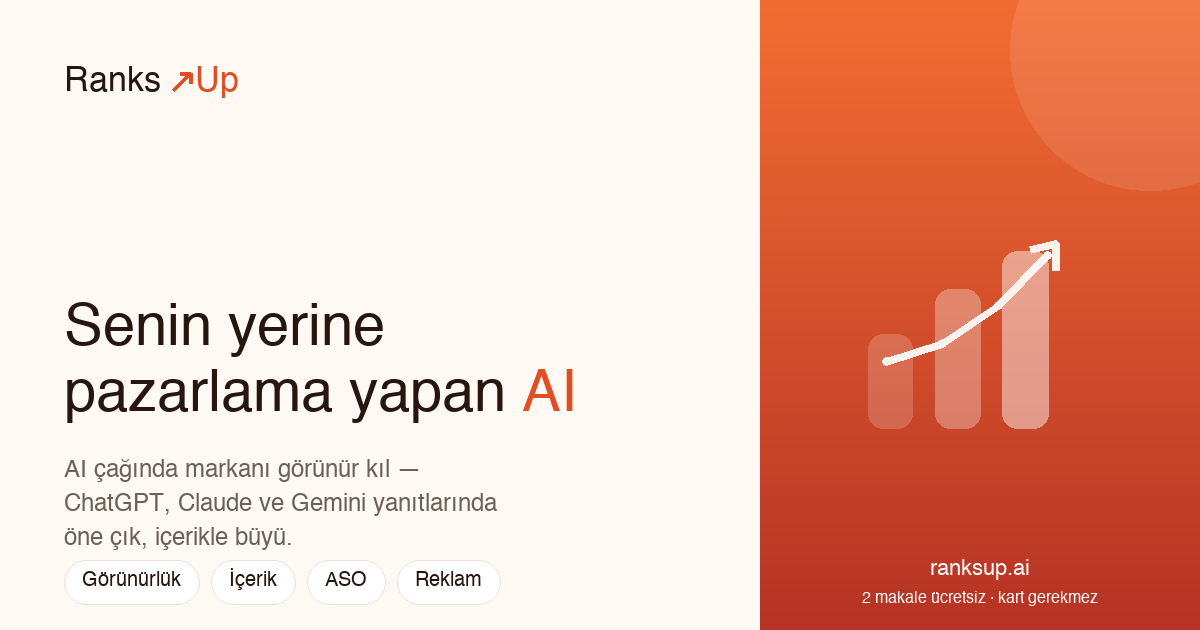
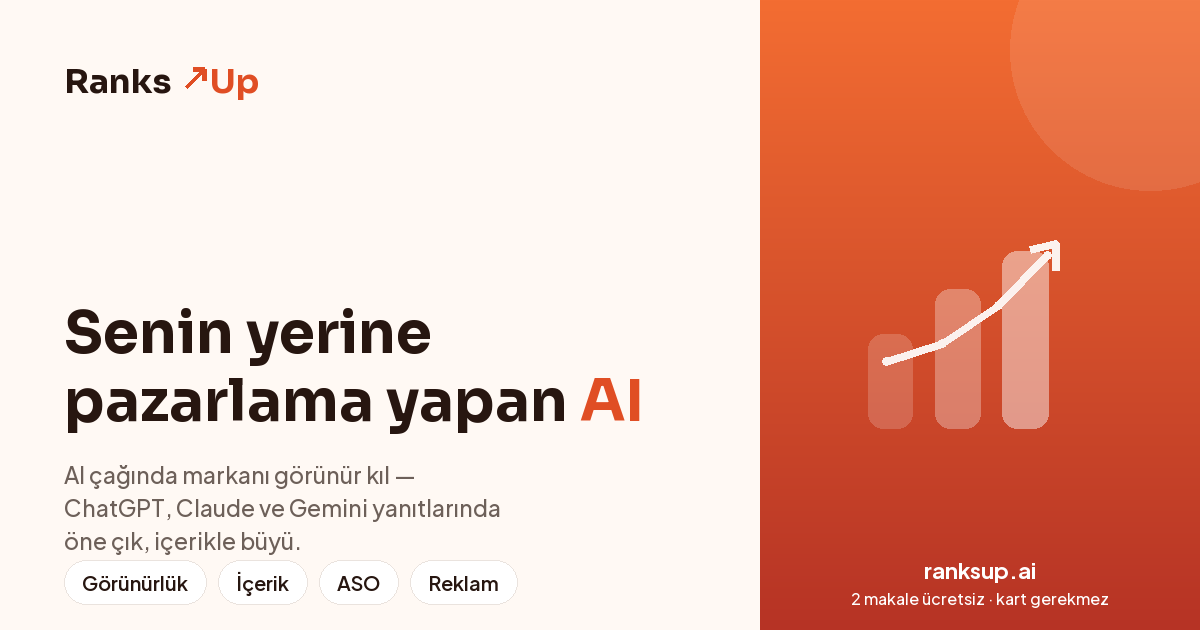
fix(brand): Sora fontu + Bridge wordmark'i her yere uygula
Logo yanlis gorunuyordu cunku Sora yuklenmemisti (system font'a dusuyordu).
- fonts.ts: Sora + Plus Jakarta Sans + JetBrains Mono eklendi (--font-sora vs)
- BrandWordmark var(--font-sora) kullaniyor
- Wordmark (Ranks↗Up) yerlestirildi: site-header, admin-sidebar, site-sidebar (x2),
  dashboard mobil bar, signin (✨ emoji kaldirildi)
- og-image.png gercek Sora + Plus Jakarta Sans ile yeniden uretildi

diff --git a/apps/web/src/components/site-sidebar.tsx b/apps/web/src/components/site-sidebar.tsx
@@ -3,7 +3,7 @@
 import Link from 'next/link';
 import { useParams, usePathname, useRouter } from 'next/navigation';
 import { useEffect, useMemo, useRef, useState } from 'react';
-import { BrandLogo } from '@/components/brand-logo';
+import { BrandWordmark } from '@/components/brand-logo';
 import {
   Home,
   Plus,
@@ -170,11 +170,10 @@ export function SiteSidebar({ onClose }: { onClose?: () => void }) {
     return (
       <>
         <div className="p-6">
-          <Link href="/" className="inline-flex items-center gap-2 text-2xl font-bold text-white">
-            <BrandLogo size={36} className="rounded-lg" />
-            RanksUp
+          <Link href="/" className="inline-flex items-center">
+            <BrandWordmark size={26} reversed />
           </Link>
-          <div className="text-xs text-slate-500 mt-2 ml-11">v0.7 Faz 2 Beta</div>
+          <div className="text-xs text-slate-500 mt-2">v0.7 Faz 2 Beta</div>
         </div>
         <nav className="px-3 space-y-1">
           {GLOBAL_NAV.map((item) => {
@@ -208,9 +207,8 @@ export function SiteSidebar({ onClose }: { onClose?: () => void }) {
   return (
     <>
       <div className="p-4">
-        <Link href="/dashboard" className="inline-flex items-center gap-2 text-base font-bold text-white mb-3">
-          <BrandLogo size={28} className="rounded-lg" />
-          RanksUp
+        <Link href="/dashboard" className="inline-flex items-center gap-2 mb-3">
+          <BrandWordmark size={19} reversed />
           <span className="text-[9px] uppercase tracking-widest text-slate-500 font-mono ml-1">Site</span>
         </Link>
 

diff --git a/apps/web/src/lib/fonts.ts b/apps/web/src/lib/fonts.ts
@@ -1,4 +1,4 @@
-import { Instrument_Serif, Geist, Geist_Mono } from 'next/font/google';
+import { Instrument_Serif, Geist, Geist_Mono, Sora, Plus_Jakarta_Sans, JetBrains_Mono } from 'next/font/google';
 
 /**
  * RanksUp tipografi sistemi — Apple-grade premium pair.
@@ -35,4 +35,29 @@ export const fontMono = Geist_Mono({
   display: 'swap',
 });
 
-export const fontVariables = `${fontDisplay.variable} ${fontSans.variable} ${fontMono.variable}`;
+/**
+ * Bridge marka sistemi fontları:
+ *   - SORA → logotype (Ranks↗Up) + başlıklar. Markanın imza fontu.
+ *   - PLUS JAKARTA SANS → gövde metni alternatifi.
+ *   - JETBRAINS MONO → kicker/etiket/kod.
+ */
+export const fontSora = Sora({
+  subsets: ['latin', 'latin-ext'],
+  weight: ['500', '600', '700', '800'],
+  variable: '--font-sora',
+  display: 'swap',
+});
+
+export const fontJakarta = Plus_Jakarta_Sans({
+  subsets: ['latin', 'latin-ext'],
+  variable: '--font-jakarta',
+  display: 'swap',
+});
+
+export const fontJetbrains = JetBrains_Mono({
+  subsets: ['latin', 'latin-ext'],
+  variable: '--font-jetbrains',
+  display: 'swap',
+});
+
+export const fontVariables = `${fontDisplay.variable} ${fontSans.variable} ${fontMono.variable} ${fontSora.variable} ${fontJakarta.variable} ${fontJetbrains.variable}`;

diff --git a/apps/web/src/app/(auth)/signin/page.tsx b/apps/web/src/app/(auth)/signin/page.tsx
@@ -3,6 +3,7 @@ import Link from 'next/link';
 import { auth, signIn } from '@/auth';
 import { Card, CardContent } from '@/components/ui/card';
 import { Button } from '@/components/ui/button';
+import { BrandWordmark } from '@/components/brand-logo';
 
 type SignInPageProps = {
   searchParams: Promise<{ callbackUrl?: string; error?: string }>;
@@ -31,11 +32,8 @@ export default async function SignInPage({ searchParams }: SignInPageProps) {
 
       <div className="w-full max-w-md space-y-6">
         <div className="text-center">
-          <Link href="/" className="inline-flex items-center gap-2 font-bold text-2xl">
-            <span className="bg-gradient-to-br from-orange-500 to-orange-700 text-white rounded-xl w-10 h-10 grid place-items-center text-xl">
-              ✨
-            </span>
-            RanksUp
+          <Link href="/" className="inline-flex items-center">
+            <BrandWordmark size={32} />
           </Link>
           <p className="text-muted-foreground mt-3 text-sm">
             Türkiye&apos;nin AI destekli SEO/GEO içerik platformu

diff --git a/apps/web/src/components/site-header.tsx b/apps/web/src/components/site-header.tsx
@@ -5,7 +5,7 @@ import { useSession } from 'next-auth/react';
 import { ArrowRight } from 'lucide-react';
 import { ThemeToggle } from '@/components/theme-toggle';
 import { LocaleSwitch } from '@/components/locale-switch';
-import { BrandLogo } from '@/components/brand-logo';
+import { BrandWordmark } from '@/components/brand-logo';
 import { useT } from '@/lib/i18n';
 
 /**
@@ -20,9 +20,8 @@ export function SiteHeader() {
   return (
     <header className="sticky top-0 z-50 w-full nav-blur">
       <div className="container-apple h-14 flex items-center justify-between">
-        <Link href="/" className="flex items-center gap-2.5 text-[15px] font-medium tracking-[-0.01em]">
-          <BrandLogo size={26} className="rounded-md" />
-          <span>RanksUp</span>
+        <Link href="/" className="flex items-center">
+          <BrandWordmark size={23} />
         </Link>
 
         <nav className="hidden md:flex items-center gap-9 text-[13px] text-neutral-600 dark:text-neutral-300">

diff --git a/apps/web/src/components/admin-sidebar.tsx b/apps/web/src/components/admin-sidebar.tsx
@@ -8,7 +8,7 @@ import {
   ListChecks, DollarSign, AlertTriangle, Settings, Sparkles,
   Menu, X,
 } from 'lucide-react';
-import { BrandLogo } from '@/components/brand-logo';
+import { BrandWordmark } from '@/components/brand-logo';
 
 const SECTIONS = [
   {
@@ -76,8 +76,7 @@ export function AdminSidebar({ userEmail }: { userEmail: string }) {
         {/* Logo */}
         <div className="h-14 px-4 flex items-center justify-between border-b shrink-0">
           <Link href="/admin" className="flex items-center gap-2 font-bold" onClick={() => setOpen(false)}>
-            <BrandLogo size={28} className="rounded-lg shadow-md" />
-            <span className="text-base">RanksUp</span>
+            <BrandWordmark size={20} />
             <span className="text-[9px] uppercase tracking-widest font-semibold px-1.5 py-0.5 rounded bg-orange-500/10 text-orange-600 dark:text-orange-400">
               Admin
             </span>

diff --git a/apps/web/src/app/(dashboard)/layout.tsx b/apps/web/src/app/(dashboard)/layout.tsx
@@ -11,6 +11,7 @@ import { cn } from '@/lib/utils';
 import { SiteSidebar } from '@/components/site-sidebar';
 import { CommandPalette } from '@/components/command-palette';
 import { NotificationBell } from '@/components/notification-bell';
+import { BrandWordmark } from '@/components/brand-logo';
 
 export default function DashboardLayout({ children }: { children: React.ReactNode }) {
   const [open, setOpen] = useState(false);
@@ -27,7 +28,7 @@ export default function DashboardLayout({ children }: { children: React.ReactNod
         >
           {open ? <X /> : <Menu />}
         </Button>
-        <Link href="/" className="text-base font-bold text-white">RanksUp</Link>
+        <Link href="/" className="inline-flex items-center"><BrandWordmark size={18} reversed /></Link>
         <div className="w-9" />
       </div>
 

diff --git a/apps/web/src/components/brand-logo.tsx b/apps/web/src/components/brand-logo.tsx
@@ -47,7 +47,7 @@ export function BrandWordmark({
       className={className}
       style={{
         display: 'inline-flex', alignItems: 'center',
-        fontFamily: "'Sora', var(--font-sora, 'Sora'), system-ui, sans-serif",
+        fontFamily: "var(--font-sora), 'Sora', system-ui, sans-serif",
         fontWeight: 700, fontSize: size, letterSpacing: '-0.03em', lineHeight: 1, whiteSpace: 'nowrap',
       }}
       aria-label="RanksUp"
